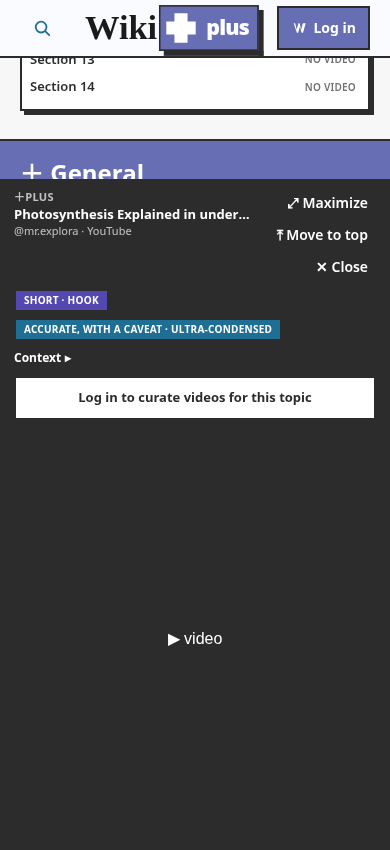
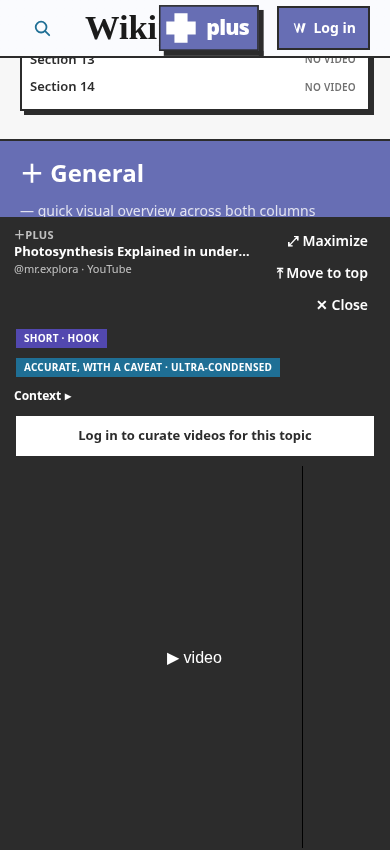
Close the mobile-dock no-overflow hole + reshoot the vertical fit (issue #120)
## Changes

DEFECT 1 (blocking, §6.1/§6.2 AC-fit) — the docked dock had no max-height and
no outer scroll, so chrome + a tall 9:16 frame + an expanded note could sum past
the viewport and push the title bar (credit / Move / Maximize / Close) off the
top edge with no way back. Implement the spec's §6.2 safety net in
`MobilePlayerDock`:
- The docked root is now capped at `100dvh` minus the safe-area insets
  (`maxHeight` on `rootStyle`), so the whole dock can never exceed the viewport.
- The title bar is pinned (`shrink-0`) and the supplemental row + frame are
  wrapped in a single internal scroll region (`min-h-0 flex-1 overflow-y-auto`
  in docked mode); the section is a flex column. However tall the chrome + frame
  + an expanded note sum, the title bar stays visible and the body scrolls — the
  same scroll-not-clip discipline `PlayerModal` uses. Maximized stays `inset-0`,
  unaffected (it is a flex column there so the frame still fills).
- Reduced the docked vertical-frame cap from `min(55vh,420px)` to
  `min(45vh,420px)` so a 9:16 frame + an expanded note fit at 360px without
  needing internal scroll in the common case; the cap + internal scroll remain
  the hard guarantee for any note length / viewport.

DEFECT 3 (C2, §6.3/§6.4) — `rootStyle` reserved the safe-area insets only when
`!maximized`, so the condensed Close/Exit bar sat flush at the very top/right
edge in maximized mode and could collide with a notch / curved corner / home
[…]

Changed region(s): [[0.0, 0.1835, 1.0, 0.5506], [0.4308, 0.7341, 0.5846, 0.7953]]

diff --git a/e2e/mobile-player-fit.spec.ts b/e2e/mobile-player-fit.spec.ts
@@ -1,0 +1,109 @@
+import { test, expect, type Page } from "@playwright/test";
+import { applyStub } from "./screenshots/catalog";
+
+// ── DEFECT-1 dimensional fit guarantee (issue #120, docs/design/unified-player-mobile.md §6.1/§6.2,
+//    AC-fit). ──────────────────────────────────────────────────────────────────────────────────────
+//
+// The no-overflow safety net: at every in-scope phone width (360/390/414/430), in BOTH orientations,
+// for BOTH 16:9 and 9:16 clips, collapsed AND with the curated note expanded, the unified mobile dock
+// must NEVER overflow the viewport — its top edge stays >= 0 and the Close + Move controls stay
+// inside the viewport (never pushed off-screen).
+//
+// This is a STANDALONE, env-guarded check (it self-skips unless FIT_CHECK=1), NOT part of the normal
+// e2e gate — it drives the REAL app + REAL CSS so the assertion measures the shipped layout (jsdom in
+// vitest has no layout engine, so getBoundingClientRect there is meaningless). It reuses the
+// screenshot harness's `applyStub` (deterministic Wikipedia/YouTube fixtures, no network egress) and
+// the seeded ephemeral Postgres from playwright.config's globalSetup. Run with:
+//   FIT_CHECK=1 yarn playwright test e2e/mobile-player-fit.spec.ts
+const ENABLED = !!process.env.FIT_CHECK;
+
+const SEL_DOCK = 'section[aria-label="Video player"]';
+
+// Two real Photosynthesis curated clips (lib/data/seed.ts), one of each orientation, BOTH carrying a
+// contextNote (so the curated "Context ▸" expander renders and the expanded-note case is exercised).
+const HORIZONTAL_CAPTION = "Photosynthesis: Crash Course Biology #8";
+const VERTICAL_CAPTION = "Photosynthesis Explained in under 1min! 🌱🔆";
+
+const WIDTHS = [360, 390, 414, 430] as const;
+// Portrait height = the most-stressing in-scope phone height (the UX repro used 780; a shorter
+// viewport is a harder fit). Landscape rotates the same window.
+const PORTRAIT_H = 780;
+
+type Orientation = "portrait" | "landscape";
+type Aspect = "16:9" | "9:16";
+
+async function openDock(page: Page, caption: string): Promise<void> {
+  await page.locator("#general-band").waitFor();
+  await page.getByRole("button", { name: `Play: ${caption}` }).first().click();
+  await page.locator(SEL_DOCK).waitFor();
+  await page.waitForTimeout(150);
+}
+
+/** Measure the dock's top + whether Close / Move are inside the viewport. In landscape the dock
+ *  auto-maximizes (inset-0), where the park toggle is intentionally hidden (§7) — so Move is only
+ *  asserted when present. Close must ALWAYS be reachable and on-screen. */
+async function measure(page: Page) {
+  const vh = page.viewportSize()!.height;
+  const vw = page.viewportSize()!.width;
+  const dock = page.locator(SEL_DOCK);
+  const box = (await dock.boundingBox())!;
+  const close = page.getByRole("button", { name: "Close video player" });
+  const closeBox = (await close.boundingBox())!;
+  const moveBtn = page.getByRole("button", { name: /Move player to (top|bottom) of screen/ });
+  const moveCount = await moveBtn.count();
+  const moveBox = moveCount ? await moveBtn.first().boundingBox() : null;
+  const inViewport = (b: { x: number; y: number; width: number; height: number }) =>
+    b.y >= 0 && b.x >= 0 && b.y + b.height <= vh + 0.5 && b.x + b.width <= vw + 0.5;
+  return {
+    dockTop: box.y,
+    closeOnScreen: inViewport(closeBox),
+    movePresent: moveCount > 0,
+    moveOnScreen: moveBox ? inViewport(moveBox) : null,
+  };
+}
+
+test.describe("Mobile dock — no-overflow fit guarantee (DEFECT 1, §6.1/§6.2)", () => {
+  test.skip(!ENABLED, "dimensional fit check — run with FIT_CHECK=1");
+
+  for (const aspect of ["16:9", "9:16"] as Aspect[]) {
+    const caption = aspect === "9:16" ? VERTICAL_CAPTION : HORIZONTAL_CAPTION;
+    for (const width of WIDTHS) {
+      for (const orientation of ["portrait", "landscape"] as Orientation[]) {
+        for (const expanded of [false, true]) {
+          const title = `${aspect} ${width}px ${orientation} ${expanded ? "expanded" : "collapsed"}`;
+          test(title, async ({ page }) => {
+            await applyStub(page, "curated");
+            const size =
+              orientation === "portrait"
+                ? { width, height: PORTRAIT_H }
+                : { width: PORTRAIT_H, height: width };
+            await page.setViewportSize(size);
+            await page.goto("/topic/Photosynthesis/");
+            await page.locator("header.header-shared").waitFor();
+            await page.locator("h1").first().waitFor();
+
+            await openDock(page, caption);
+
+            // Expand the curated note (the case that DEFECT 1 reproduced). In landscape the dock is
+            // maximized and the supplemental row (incl. the expander) is hidden — there is nothing to
+            // expand, so skip the expand step there; the maximized layout is what we still measure.
+            if (expanded && orientation === "portrait") {
+              await page.getByRole("button", { name: /^Context/ }).click();
+              await page.waitForTimeout(120);
+            }
+
+            const m = await measure(page);
+            // The dock never grows past the top edge (the title bar is never clipped off-screen).
+            expect(m.dockTop, `dock top must be >= 0 (was ${m.dockTop})`).toBeGreaterThanOrEqual(-0.5);
+            // Close is always reachable and on-screen.
+            expect(m.closeOnScreen, "Close button must be within the viewport").toBe(true);
+            // Move is on-screen whenever it is present (docked); absent (correctly) when maximized.
+            if (m.movePresent) {
+              expect(m.moveOnScreen, "Move button must be within the viewport").toBe(true);
+            }
+          });
+        }
+      }
+    }
+  }
+});

diff --git a/components/topic/MobilePlayerDock.tsx b/components/topic/MobilePlayerDock.tsx
@@ -119,7 +119,10 @@ export function MobilePlayerDock({
 
   // ── Frame sizing (§6.2/§6.3/§6.4). ──
   // Docked: 16:9 fills the full width (aspect-video, ~0.56·VW); 9:16 is height-capped at
-  // min(55vh,420px) so a Short can't tower, centered + letterboxed on black.
+  // min(45vh,420px) so a Short can't tower, centered + letterboxed on black. The vertical cap is
+  // 45vh (not 55vh) so the frame + an expanded note fit within the dock height-cap (§6.2) at the
+  // shortest in-scope width (360px) WITHOUT internal scroll in the common case; the dock-level cap
+  // + internal scroll below is the hard guarantee for any note length / viewport.
   // Maximized: 16:9 fills the full landscape rectangle; 9:16 fills the full height upright,
   // centered/letterboxed — both via flex centering inside the inset-0 section.
   const frameClass = maximized
@@ -128,24 +131,46 @@ export function MobilePlayerDock({
       : "h-full w-full bg-black"
     : vertical
       ? "mx-auto w-auto bg-black [aspect-ratio:9/16]" +
-        " h-[min(55vh,420px)] max-h-[min(55vh,420px)]"
+        " h-[min(45vh,420px)] max-h-[min(45vh,420px)]"
       : "w-full bg-black aspect-video";
 
   const rootStyle: CSSProperties = {
     // Reserve the safe-area insets so chrome never hides under a notch / home indicator (§6.1).
-    paddingTop: edge === "top" && !maximized ? "env(safe-area-inset-top)" : undefined,
-    paddingBottom:
-      edge === "bottom" && !maximized ? "env(safe-area-inset-bottom)" : undefined,
+    // Docked: pad the parked edge. Maximized (§6.3/§6.4): the condensed Close/Exit bar sits at the
+    // very top/right edge, so pad top + right (and bottom) so it always clears a notch / curved
+    // corner / home indicator in landscape — the safe area applies in BOTH layout modes.
+    paddingTop: maximized
+      ? "env(safe-area-inset-top)"
+      : edge === "top"
+        ? "env(safe-area-inset-top)"
+        : undefined,
+    paddingRight: maximized ? "env(safe-area-inset-right)" : undefined,
+    paddingLeft: maximized ? "env(safe-area-inset-left)" : undefined,
+    paddingBottom: maximized
+      ? "env(safe-area-inset-bottom)"
+      : edge === "bottom"
+        ? "env(safe-area-inset-bottom)"
+        : undefined,
+    // Docked dock-height cap (§6.2 fit guarantee, the no-overflow safety net): the WHOLE dock can
+    // never exceed the viewport minus the safe-area insets, so however tall the chrome + frame +
+    // an expanded note sum, the bottom-pinned dock can't grow upward past the top edge and clip the
+    // title bar (credit / Move / Maximize / Close) off-screen. The title bar is pinned and the
+    // frame + supplemental/note region is the internal scroll area (the flex layout below) — the
+    // same scroll-not-clip discipline PlayerModal uses. Maximized is inset-0, so no cap there.
+    maxHeight: maximized
+      ? undefined
+      : "calc(100dvh - env(safe-area-inset-top) - env(safe-area-inset-bottom))",
   };
 
   const rootClass =
     // Shared: a fixed layer below modals (z-40 < ModalShell z-50, §9), ink box, 2px ink border,
     // white-on-ink chrome. No backdrop, occupies only its own box (docked) or the whole viewport
-    // (maximized). No offset shadow on mobile (it would clip at the viewport edge).
-    "fixed z-40 border-2 border-ink bg-ink text-white" +
+    // (maximized). No offset shadow on mobile (it would clip at the viewport edge). A flex column in
+    // BOTH modes so the title bar can be pinned and the body region scrolls within the height cap.
+    "fixed z-40 flex flex-col border-2 border-ink bg-ink text-white" +
     (maximized
       ? // Maximized: the SAME section grows to fill the viewport (CSS, not native fullscreen).
-        " inset-0 flex flex-col"
+        " inset-0"
       : // Docked: full-width bar pinned to the parked edge.
         " inset-x-0" + (edge === "top" ? " top-0" : " bottom-0")) +
     // Reduced-motion-gated dock-in (§9): class only when motion is allowed and not maximized
@@ -157,8 +182,9 @@ export function MobilePlayerDock({
       {/* ── Title bar (shared, §5.1): ＋plus eyebrow + caption + creator credit (left) · the
           park / maximize / Close controls (right). White on ink ≈ 15:1 — clears AA/AAA. In
           maximized mode the chrome condenses to a thin Close bar (caption credit only; park
-          hidden — §6.3/§6.4). ── */}
-      <div className="flex items-start gap-2 px-3 py-2">
+          hidden — §6.3/§6.4). PINNED (shrink-0) so the dock-height cap never scrolls or clips
+          the credit / Move / Maximize / Close off-screen (§6.2 fit guarantee). ── */}
+      <div className="flex shrink-0 items-start gap-2 px-3 py-2">
         <div className="min-w-0 flex-1">
           <p className="plus-disp text-[11px] font-bold uppercase tracking-wide text-white/70">
             ＋plus
@@ -214,6 +240,16 @@ export function MobilePlayerDock({
         </div>
       </div>
 
+      {/* ── Dock body (supplemental row + frame). Docked: the INTERNAL SCROLL AREA — `min-h-0
+          flex-1 overflow-y-auto` under the pinned title bar and within the section's dock-height
+          cap (§6.2). However tall the chrome + frame + an expanded note sum, the title bar stays
+          visible and this region scrolls (Close / Move / Maximize / credit are never pushed
+          off-screen). Maximized: `flex flex-1` so the inner frame-fill div fills the viewport. ── */}
+      <div
+        className={
+          maximized ? "flex min-h-0 flex-1 flex-col" : "min-h-0 flex-1 overflow-y-auto"
+        }
+      >
       {/* ── Supplemental row (parameterized, §5.2). Hidden in maximized mode (the reader is
           watching, not reading — §6.3/§6.4); it returns on exit. ── */}
       {!maximized && (
@@ -318,6 +354,7 @@ export function MobilePlayerDock({
             </p>
           )}
         </div>
+      </div>
       </div>
     </section>
   );

diff --git a/e2e/screenshots/catalog.ts b/e2e/screenshots/catalog.ts
@@ -319,6 +319,16 @@ async function openMobileDockVertical(page: Page): Promise<void> {
   await page.waitForTimeout(200);
 }
 
+/** Open a vertical Short docked, then expand its curated "Context ▸" note. This is the stressing
+ *  fit case (a tall 9:16 frame + an expanded note): the dock's height-cap + internal scroll keep
+ *  the title bar (credit / Move / Maximize / Close) on-screen and the dock within the viewport
+ *  (§6.2 fit guarantee) — the state a horizontal clip can never exercise. */
+async function openMobileDockVerticalExpanded(page: Page): Promise<void> {
+  await openMobileDockVertical(page);
+  await page.getByRole("button", { name: /^Context/ }).click();
+  await page.waitForTimeout(150);
+}
+
 /** Open a vertical Short docked, then maximize it (explicit ⤢ button — a Short's best frame is
  *  portrait-tall, so its maximize is reachable without a rotation gesture). Fills full height. */
 async function openMobileDockMaximizedVertical(page: Page): Promise<void> {
@@ -552,13 +562,26 @@ export const SCENES: Scene[] = [
     id: "mobile-player-vertical",
     group: "Players · mobile unified",
     label: "Mobile dock — vertical 9:16 clip",
-    note: "A 9:16 Short docked: height-capped at min(55vh,420px), centered + letterboxed on black — the vertical fit at 390px.",
+    note: "A 9:16 Short docked: height-capped at min(45vh,420px), centered + letterboxed on black — the vertical fit at 390px.",
     route: "/topic/Photosynthesis/",
     stub: "curated",
     viewports: ["mobile"],
     auth: ["out"],
     ready: topicReady,
     prepare: openMobileDockVertical,
+    clip: "viewport",
+  },
+  {
+    id: "mobile-player-vertical-expanded",
+    group: "Players · mobile unified",
+    label: "Mobile dock — vertical 9:16, expanded note",
+    note: "The stressing fit case: a tall 9:16 frame WITH the curated note expanded. The dock's height-cap + internal scroll keep the title bar (credit / Move / Maximize / Close) on-screen and the whole dock within the viewport (§6.2) — the no-overflow guarantee a horizontal clip can't exercise.",
+    route: "/topic/Photosynthesis/",
+    stub: "curated",
+    viewports: ["mobile"],
+    auth: ["out"],
+    ready: topicReady,
+    prepare: openMobileDockVerticalExpanded,
     clip: "viewport",
   },
   {

diff --git a/docs/design/ui-screenshots/index.html b/docs/design/ui-screenshots/index.html
@@ -37,7 +37,7 @@
 <body>
 <header class="top">
   <h1>wiki+ <span class="plus">screenshots</span></h1>
-  <div class="meta">95 shots · 25 scenes · generated from <code>e2e/screenshots/catalog.ts</code></div>
+  <div class="meta">96 shots · 26 scenes · generated from <code>e2e/screenshots/catalog.ts</code></div>
   <div class="controls">
     <input type="search" id="search" placeholder="Filter scenes…" aria-label="Filter scenes">
     <fieldset><legend>Viewport</legend>
@@ -598,13 +598,24 @@
           <figcaption><span class="vp">mobile</span> · logged-in</figcaption>
         </figure></div>
       </article>
-      <article class="scene" data-group="Players · mobile unified" data-search="mobile dock — vertical 9:16 clip a 9:16 short docked: height-capped at min(55vh,420px), centered + letterboxed on black — the vertical fit at 390px. players · mobile unified mobile-player-vertical">
+      <article class="scene" data-group="Players · mobile unified" data-search="mobile dock — vertical 9:16 clip a 9:16 short docked: height-capped at min(45vh,420px), centered + letterboxed on black — the vertical fit at 390px. players · mobile unified mobile-player-vertical">
         <h3>Mobile dock — vertical 9:16 clip <span class="id">mobile-player-vertical</span></h3>
-        <p class="note">A 9:16 Short docked: height-capped at min(55vh,420px), centered + letterboxed on black — the vertical fit at 390px.</p>
+        <p class="note">A 9:16 Short docked: height-capped at min(45vh,420px), centered + letterboxed on black — the vertical fit at 390px.</p>
         <div class="shots">
         <figure class="shot" data-viewport="mobile" data-auth="out">
           <a href="mobile-player-vertical-mobile-logged-out.png" target="_blank" rel="noopener">
             <img loading="lazy" src="mobile-player-vertical-mobile-logged-out.png" alt="Mobile dock — vertical 9:16 clip — mobile logged-out">
+          </a>
+          <figcaption><span class="vp">mobile</span> · logged-out</figcaption>
+        </figure></div>
+      </article>
+      <article class="scene" data-group="Players · mobile unified" data-search="mobile dock — vertical 9:16, expanded note the stressing fit case: a tall 9:16 frame with the curated note expanded. the dock's height-cap + internal scroll keep the title bar (credit / move / maximize / close) on-screen and the whole dock within the viewport (§6.2) — the no-overflow guarantee a horizontal clip can't exercise. players · mobile unified mobile-player-vertical-expanded">
+        <h3>Mobile dock — vertical 9:16, expanded note <span class="id">mobile-player-vertical-expanded</span></h3>
+        <p class="note">The stressing fit case: a tall 9:16 frame WITH the curated note expanded. The dock's height-cap + internal scroll keep the title bar (credit / Move / Maximize / Close) on-screen and the whole dock within the viewport (§6.2) — the no-overflow guarantee a horizontal clip can't exercise.</p>
+        <div class="shots">
+        <figure class="shot" data-viewport="mobile" data-auth="out">
+          <a href="mobile-player-vertical-expanded-mobile-logged-out.png" target="_blank" rel="noopener">
+            <img loading="lazy" src="mobile-player-vertical-expanded-mobile-logged-out.png" alt="Mobile dock — vertical 9:16, expanded note — mobile logged-out">
           </a>
           <figcaption><span class="vp">mobile</span> · logged-out</figcaption>
         </figure></div>